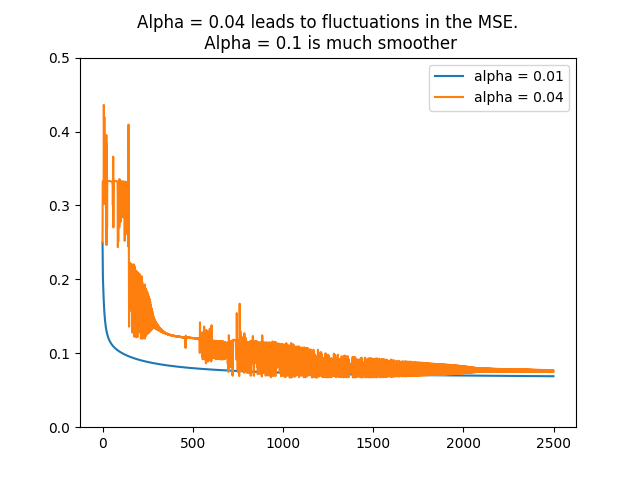
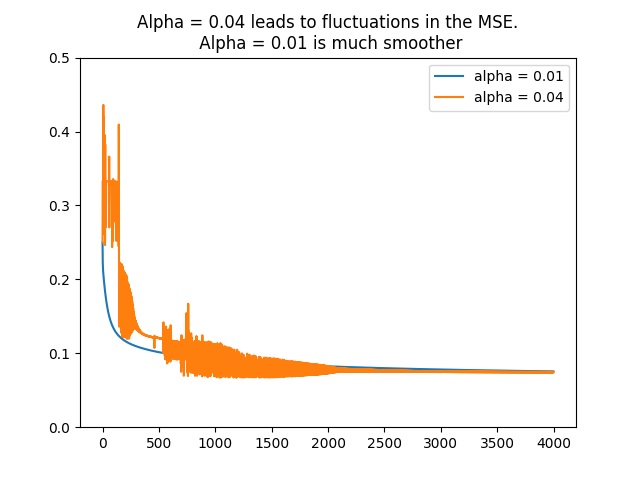
fixed confusion matrix,  added confusion matrix for test set

diff --git a/iris.py b/iris.py
@@ -98,7 +98,36 @@ def confusion_matrix(predictions, actual_class, features):
     confusion = np.zeros((features, features))
     for i in range(len(predictions)):
         confusion[actual_class[i]][predictions[i]] += 1
-    return confusion.T
+    return confusion
+
+def print_confusion(conf):
+    """
+    Creates a latex table that is pre-formatted for a given confusion matrix.
+    """
+    classes = ['1', '2', '3']
+
+
+    print("""\\begin{table}[H]
+\\caption{}
+\\centering
+\\begin{tabular}{|c|lll|}""")
+    conf = conf.astype(int)
+    print('\\hline\nclass & '+' & '.join(classes) + '\\\\' + '\\hline')
+    for i, row in enumerate(conf):
+        rw = classes[i]
+        for j, elem in enumerate(row):
+            rw += ' & '
+            if elem == 0:
+                rw += '-'
+            else:
+                rw += str(elem)
+        rw += '\\\\'
+        if i == 2:
+            rw += '\\hline'
+        print(rw)
+    print("""\\end{tabular}
+\\end{table}""")
+    print()
 
 def print_histogram():
     data = get_x()
@@ -113,87 +142,127 @@ def print_histogram():
         title = "Histogram of four different flower features for class " +  str(i) 
         plt.legend(labels)
         plt.title(title)
-        plt.savefig('histogram' + str(i) + '.png')
+        plt.savefig('./figures/histogram' + str(i) + '.png')
         j+=1
     plt.show()
 
 def plot_mse(iterations, mse_values, mse_values2):
     plt.figure(4)
-    plt.title("Alpha = 0.04 leads to fluctuations in the MSE.\n Alpha = 0.1 is much smoother")
+    plt.title("Alpha = 0.04 leads to fluctuations in the MSE.\n Alpha = 0.01 is much smoother")
     steps = list(range(iterations))
     plt.plot(steps, mse_values, steps, mse_values2)
     labels = "alpha = 0.01", "alpha = 0.04"
     plt.legend(labels)
     plt.ylim(0, 0.5)
-    plt.savefig("mse_values.png")
+    plt.savefig("./figures/mse_values.png")
     plt.show()
 
 def problem1(x,t,alpha, iterations):
     W, mse_values = train(x[:90], t[:90], alpha, iterations)
-    print(W)
     predictions = predict(W,x[90:])
+    train_values = predict(W,x[:90])
     trueclass = np.argmax(t[90:], axis=1)
-    confusion = confusion_matrix(predictions,trueclass,3)
+    trueclass_train = np.argmax(t[:90], axis=1)
+
+    confusion_test = confusion_matrix(predictions,trueclass,3)
+    confusion_train = confusion_matrix(train_values,trueclass_train,3)
+
     print("With 30 samples training and 20 for testing we get")
     print("correct guesses: ",100*np.sum(predictions == trueclass) / predictions.size, "%")
     print("Minimum mean-squared error obtained: ",mse_values[len(mse_values) -1])
-    print("confusion matrix:\n",confusion)
+    print("confusion matrix for test set:\n",confusion_test)
+    print_confusion(confusion_test)
+    print("confusion matrix for training set:\n",confusion_train)
+    print_confusion(confusion_train)
+
+
 
     W, mse_values = train(x[60:], t[60:], alpha, iterations)
     predictions = predict(W,x[:60])
+    train_values = predict(W,x[:90])
     trueclass = np.argmax(t[:60], axis=1)
 
-    confusion = confusion_matrix(predictions,trueclass,3)
+    confusion_test = confusion_matrix(predictions,trueclass,3)
+    confusion_train = confusion_matrix(train_values,trueclass_train,3)
+
     print("With last 30 samples training and first 20 for testing we get")
     print("correct guesses: ",100*np.sum(predictions == trueclass) / predictions.size, "%")
     print("Minimum mean-squared error obtained: ",mse_values[len(mse_values) -1])
-    print("confusion matrix:\n",confusion)
+    print("confusion matrix for test set:\n",confusion_test)
+    print_confusion(confusion_test)
+    print("confusion matrix for training set:\n",confusion_train)
+    print_confusion(confusion_train)
 
-    #W2, mse_values2 = train(x[:90], t[:90], 0.04, iterations)
-    #plot_mse(iterations,mse_values, mse_values2)
+    W2, mse_values2 = train(x[:90], t[:90], 0.04, iterations)
+    plot_mse(iterations,mse_values, mse_values2)
 
 
 
 def problem2(x,t,alpha,iterations):
+    #Remove first feature
     x = np.delete(x, 1, axis=1)    
     W, mse_values = train(x[:90], t[:90], alpha, iterations)
     predictions = predict(W,x[90:])
     trueclass = np.argmax(t[90:], axis=1)
-    confusion = confusion_matrix(predictions,trueclass,3)
+    train_values = predict(W,x[:90])
+    trueclass_train = np.argmax(t[:90], axis=1)
+
+
+    confusion_test = confusion_matrix(predictions,trueclass,3)
+    confusion_train = confusion_matrix(train_values,trueclass_train,3)
+
     print("\nProblem 2\n\nRemoved 1 feature")
     print("correct guesses: ",100*np.sum(predictions == trueclass) / predictions.size, "%")
     print("Minimum mean-squared error obtained: ",mse_values[len(mse_values) -1])
-    print("confusion matrix:\n",confusion)
+    print("confusion matrix for test set:\n",confusion_test)
+    print_confusion(confusion_test)
+    print("confusion matrix for training set:\n",confusion_train)
+    print_confusion(confusion_train)
 
+    #Remove another feature
     x = np.delete(x, 2, axis=1)    
     W, mse_values = train(x[:90], t[:90], alpha, iterations)
     predictions = predict(W,x[90:])
     trueclass = np.argmax(t[90:], axis=1)
-    confusion = confusion_matrix(predictions,trueclass,3)
+    confusion_test = confusion_matrix(predictions,trueclass,3)
+    train_values = predict(W,x[:90])
+    trueclass_train = np.argmax(t[:90], axis=1)
+    confusion_train = confusion_matrix(train_values,trueclass_train,3)
+
     print("\nRemoved 2 features")
     print("correct guesses: ",100*np.sum(predictions == trueclass) / predictions.size, "%")
     print("Minimum mean-squared error obtained: ",mse_values[len(mse_values) -1])
-    print("confusion matrix:\n",confusion)
+    print("confusion matrix for test set:\n",confusion_test)
+    print_confusion(confusion_test)
+    print("confusion matrix for training set:\n",confusion_train)
+    print_confusion(confusion_train)
 
+    #Remove third feature
     x = np.delete(x, 0, axis=1)   
     W, mse_values = train(x[:90], t[:90], alpha, iterations)
     predictions = predict(W,x[90:])
     trueclass = np.argmax(t[90:], axis=1)
-    confusion = confusion_matrix(predictions,trueclass,3)
+    confusion_test = confusion_matrix(predictions,trueclass,3)
+    train_values = predict(W,x[:90])
+    trueclass_train = np.argmax(t[:90], axis=1)
+    confusion_train = confusion_matrix(train_values,trueclass_train,3)
+
     print("\nRemoved 3 features")
     print("correct guesses: ",100*np.sum(predictions == trueclass) / predictions.size, "%")
     print("Minimum mean-squared error obtained: ",mse_values[len(mse_values) -1])
-    print("confusion matrix:\n",confusion)
-
+    print("confusion matrix for test set:\n",confusion_test)
+    print_confusion(confusion_test)
+    print("confusion matrix for training set:\n",confusion_train)
+    print_confusion(confusion_train)
 
 
 if __name__ == '__main__':
-    iterations = 2500
-    alpha = 0.005
+    iterations = 4000
+    alpha = 0.001
     x,t = get_data()
     
     
     #print_histogram()
 
-    problem1(x,t,alpha,iterations)
+    #problem1(x,t,alpha,iterations)
     problem2(x,t,alpha,iterations)
